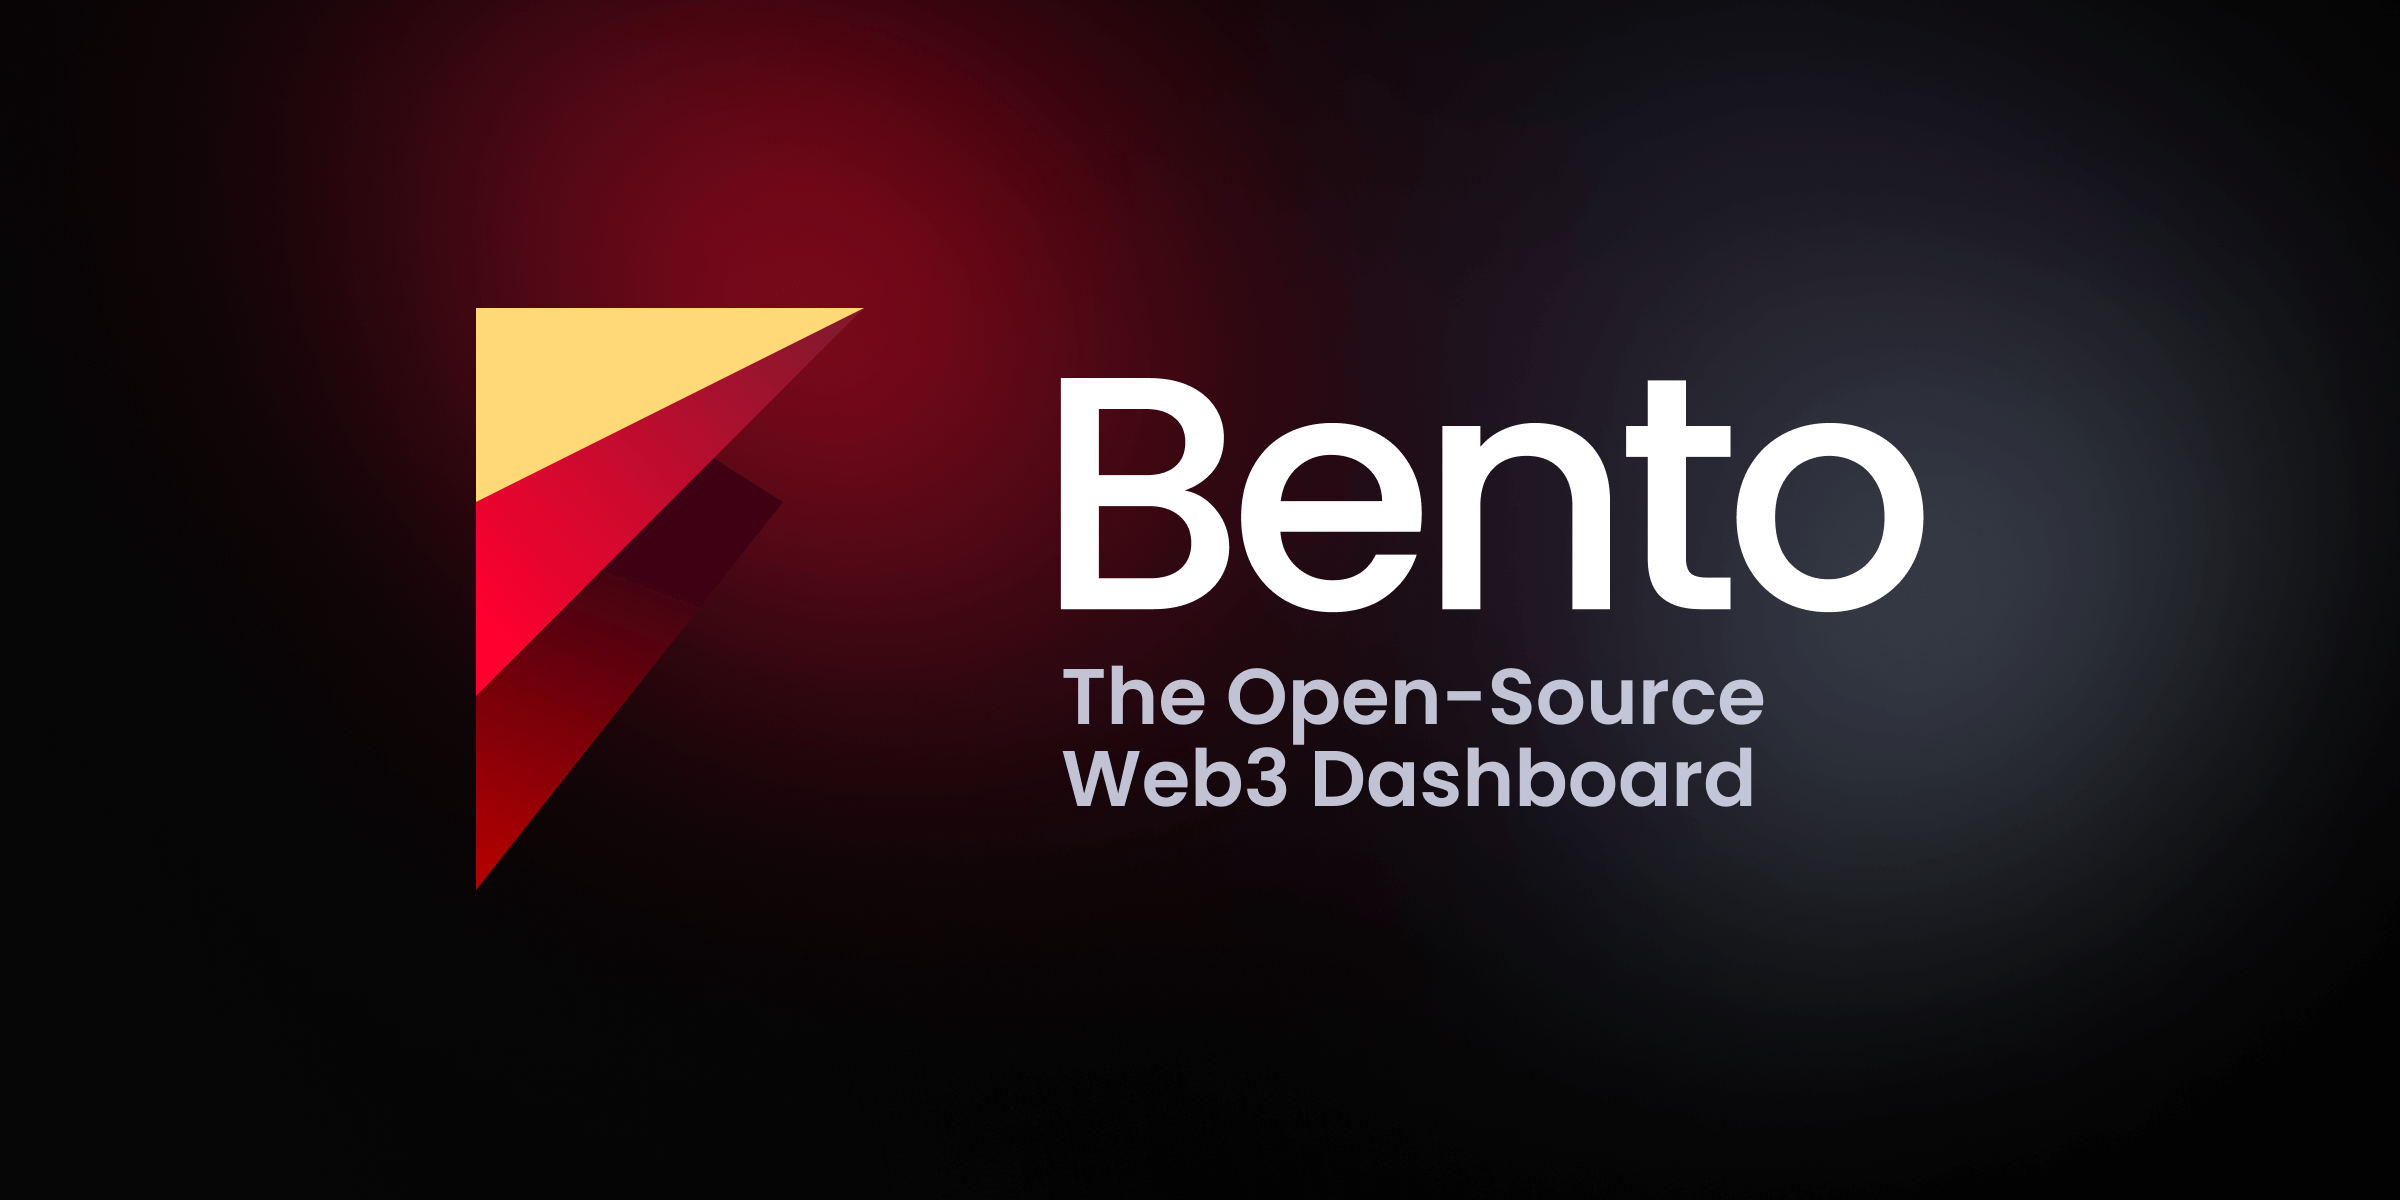
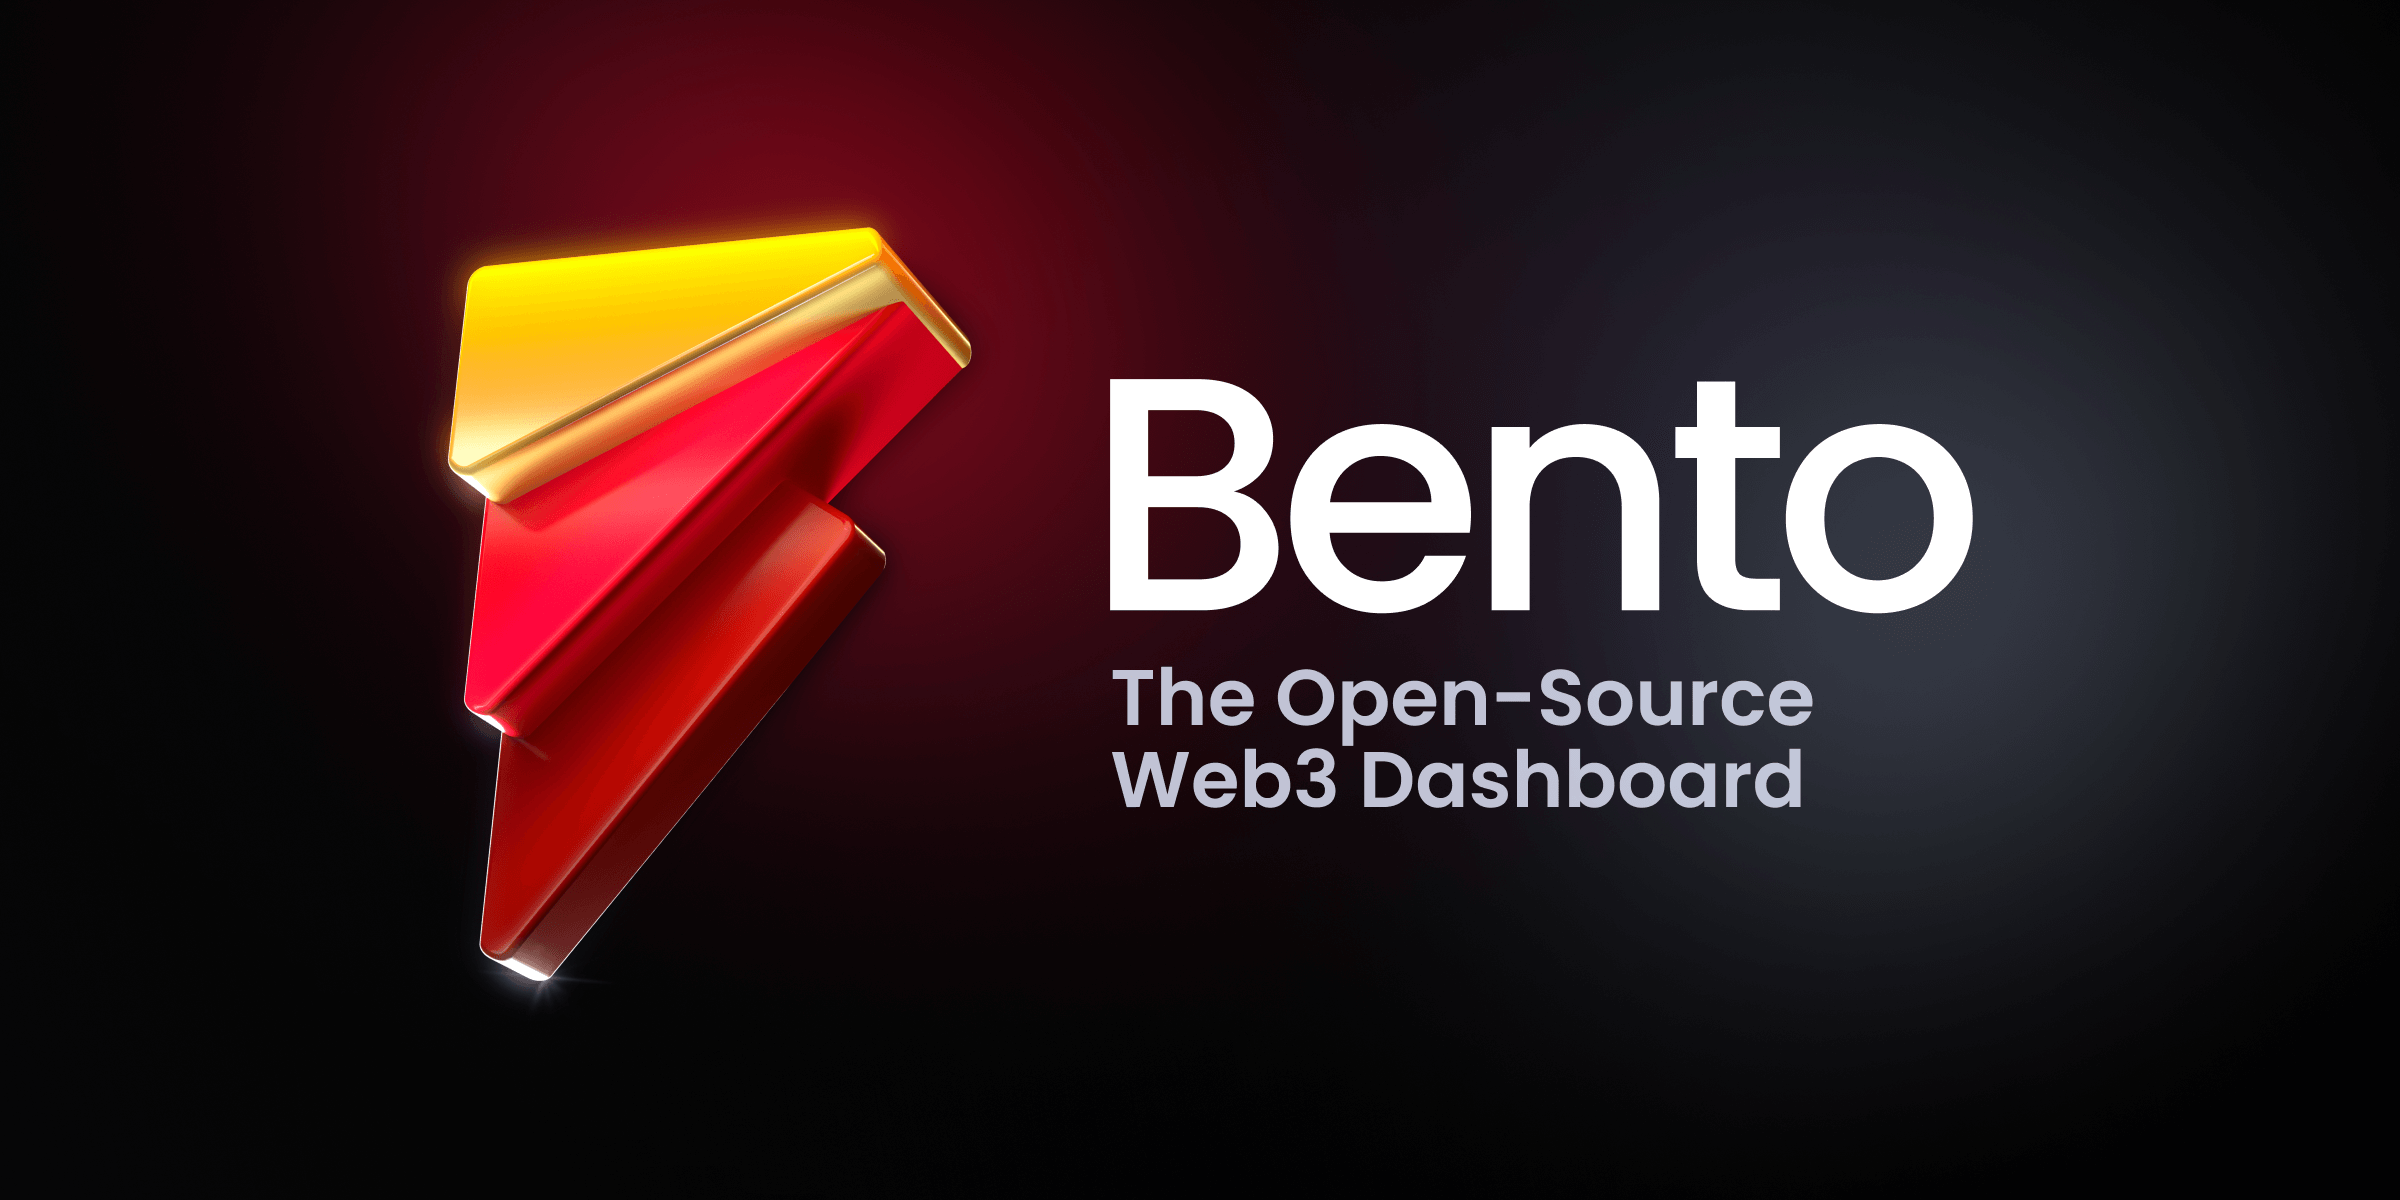
Replace assets to 3D

Changed region(s): [[0.1562, 0.1542, 0.4062, 0.8325], [0.4375, 0.3083, 0.8438, 0.5242], [0.4375, 0.555, 0.75, 0.6783]]

diff --git a/packages/bento-landing/src/landing/sections/HeaderSection.tsx b/packages/bento-landing/src/landing/sections/HeaderSection.tsx
@@ -156,15 +156,15 @@ const BentoIllust = styled.img`
   bottom: 75.29px;
 `;
 
-const BENTO_ZAP_BLUR_SIZE = 132.228;
+const BENTO_ZAP_BLUR_SIZE = 160;
 const BentoZap = styled.img`
   margin: ${-BENTO_ZAP_BLUR_SIZE}px;
-  width: ${369.51 + BENTO_ZAP_BLUR_SIZE * 2}px;
-  height: ${525.03 + BENTO_ZAP_BLUR_SIZE * 2}px;
+  width: ${555.34 + BENTO_ZAP_BLUR_SIZE * 2}px;
+  height: ${585.34 + BENTO_ZAP_BLUR_SIZE * 2}px;
 
   position: absolute;
-  left: 0;
-  bottom: 124.49px;
+  left: -47px;
+  bottom: 109.18px;
 `;
 
 const Content = styled.div`
